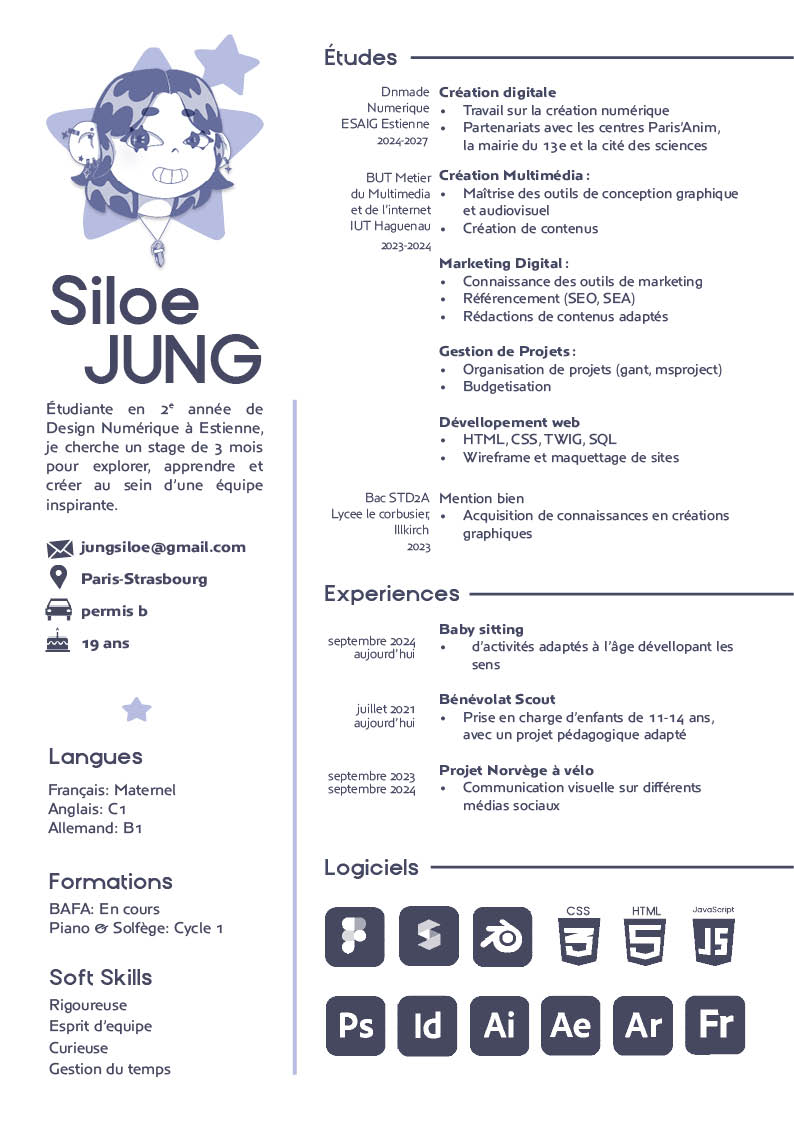
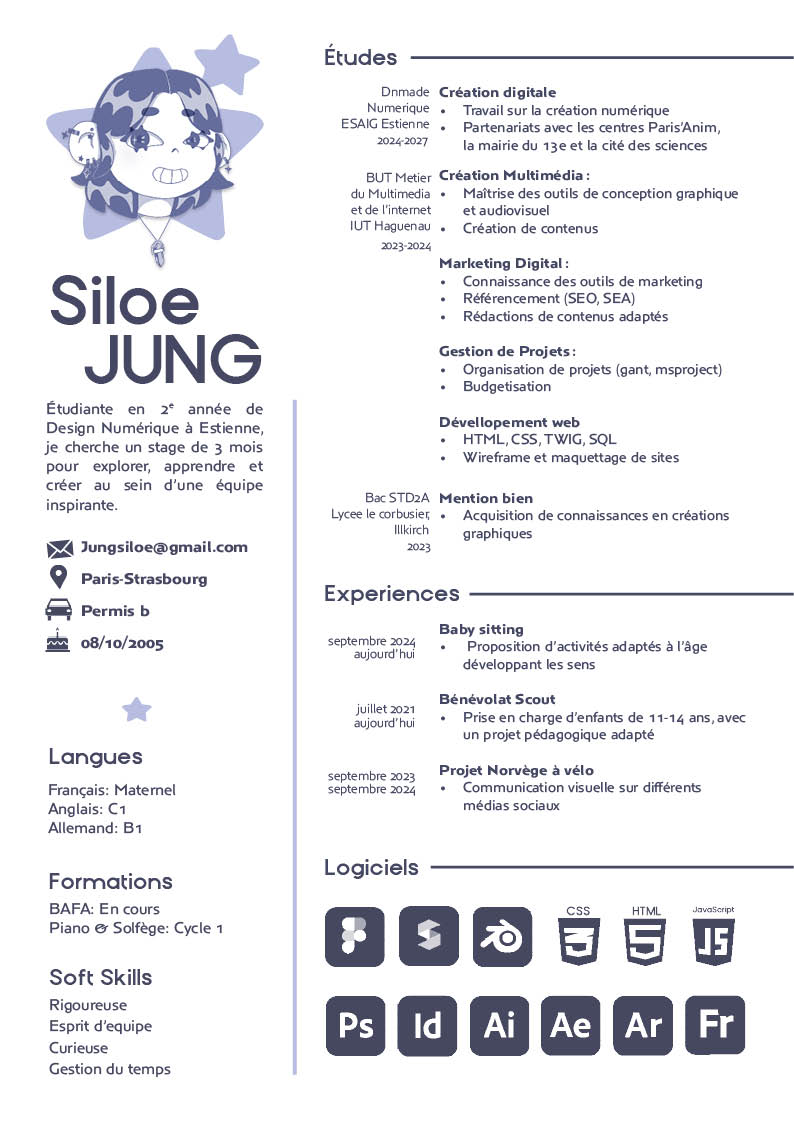
update

diff --git a/src/Desktop.jsx b/src/Desktop.jsx
@@ -11,7 +11,7 @@ export default function Desktop({ autoOpen, showCharacter }) {
   // Fonction pour ouvrir une nouvelle fenêtre
   const openWindow = (type) => {
     if (windows.some((w) => w.type === type)) return; // évite les doublons
-   
+
     const newWindow = {
       id: Date.now(),
       type,
@@ -34,9 +34,15 @@ export default function Desktop({ autoOpen, showCharacter }) {
                         ? "Croquis"
                         : type === "calendrier"
                           ? "Calendrier"
-                          : type === "flyer"
-                            ? "Flyer réalité augmentée"
-                            : "Réseaux",
+                          : type === "jeuvid"
+                            ? "Jeu Vidéo"
+                            : type === "stage"
+                              ? "Rapport de Stage"
+                              : type === "The fool"
+                                ? "Fool"
+                                : type === "flyer"
+                                  ? "Flyer réalité augmentée"
+                                  : "Réseaux",
       content:
         type === "quisuisje" ? (
           <img src="/images/Kisuisje.jpg" className="doc-image" title="À propos" />
@@ -58,6 +64,12 @@ export default function Desktop({ autoOpen, showCharacter }) {
           <img src="/images/book202511.jpg" alt="Croquis" className="doc-image" />
         ) : type === "calendrier" ? (
           <img src="/images/book20256.jpg" alt="Calendrier" className="doc-image" />
+        ) : type === "jeuvid" ? (
+          <img src="/images/book202514.jpg" alt="Jeu Vidéo" className="doc-image" />
+           ) : type === "stage" ? (
+          <img src="/images/book202515.jpg" alt="Rapport de Stage" className="doc-image" />
+           ) : type === "fool" ? (
+          <img src="/images/book202513.jpg" alt="The fool" className="doc-image" />
         ) : type === "flyer" ? (
           <img src="/images/book202510.jpg" alt="Flyer réalité augmentée" className="doc-image" />
         ) : (
@@ -111,14 +123,18 @@ export default function Desktop({ autoOpen, showCharacter }) {
           <Folder title="Réseaux" icon="/images/partage.png" onClick={() => openWindow("reseaux")} />
         </div>
         <div className="projets">
+           <Folder title="Grape Girl" icon="/images/IconeDossier1.png" onClick={() => openWindow("grapegirl")} />
+          <Folder title="Jeu Vidéo" icon="/images/IconeDossier1.png" onClick={() => openWindow("jeuvid")} />
+           <Folder title="Rapport de Stage" icon="/images/IconeDossier1.png" onClick={() => openWindow("stage")} />
+            <Folder title="The fool" icon="/images/IconeDossier1.png" onClick={() => openWindow("fool")} />
+          <Folder title="Art'Zulejos" icon="/images/IconeDossier1.png" onClick={() => openWindow("artzulejos")} />
           <Folder title="Modélisation 3D" icon="/images/IconeDossier1.png" onClick={() => openWindow("modelisation3D")} />
           <Folder title="Fanzine" icon="/images/IconeDossier1.png" onClick={() => openWindow("fanzine")} />
           <Folder title="Jeu d'échec" icon="/images/IconeDossier1.png" onClick={() => openWindow("jeuechec")} />
           <Folder title="Croquis" icon="/images/IconeDossier1.png" onClick={() => openWindow("croquis")} />
           <Folder title="Calendrier" icon="/images/IconeDossier1.png" onClick={() => openWindow("calendrier")} />
           <Folder title="Flyer réalité augmentée" icon="/images/IconeDossier1.png" onClick={() => openWindow("flyer")} />
-          <Folder title="Grape Girl" icon="/images/IconeDossier1.png" onClick={() => openWindow("grapegirl")} />
-          <Folder title="Art'Zulejos" icon="/images/IconeDossier1.png" onClick={() => openWindow("artzulejos")} />
+         
         </div>
       </div>
 
